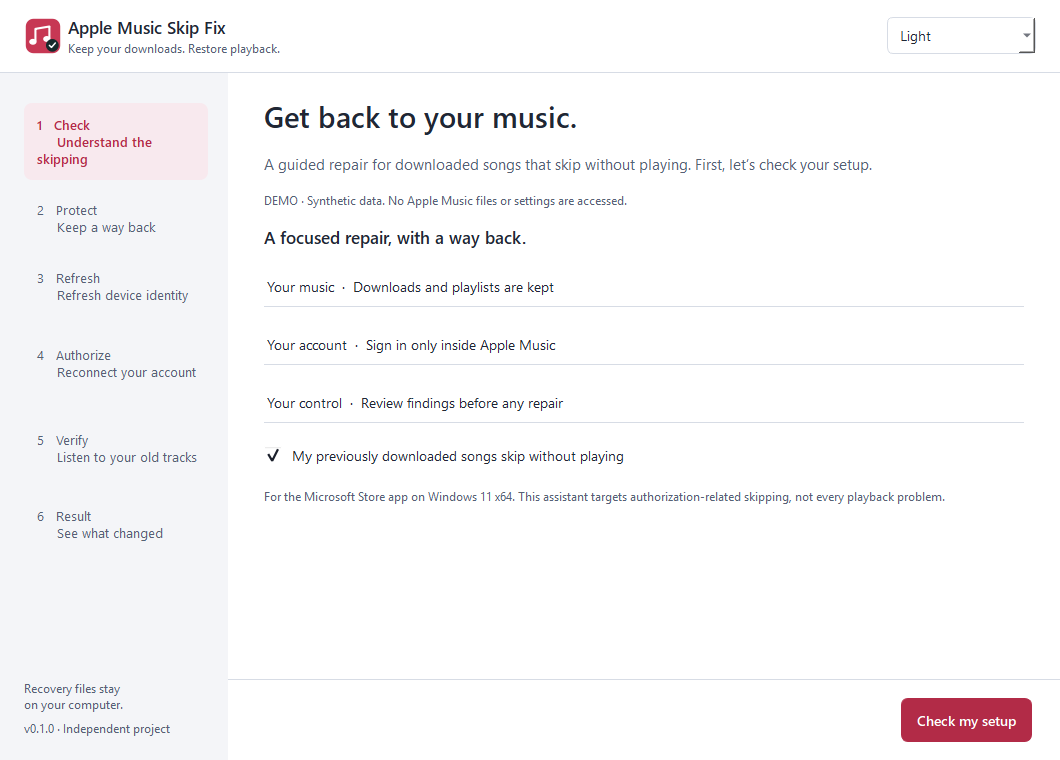
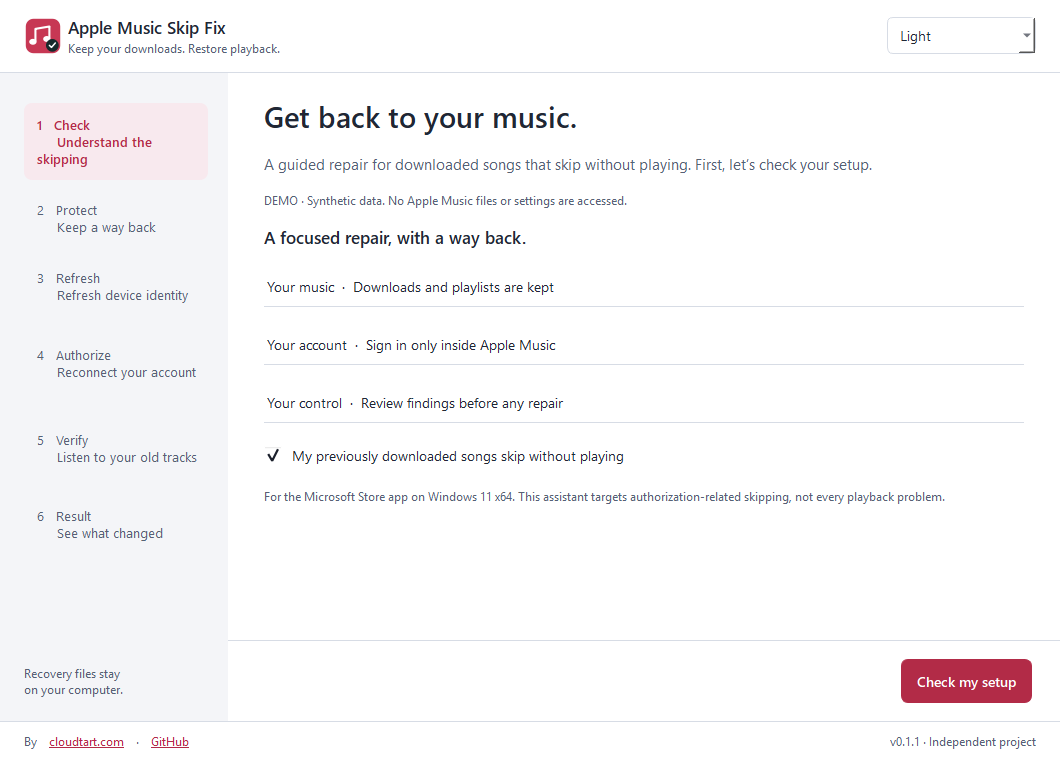
Add CloudTart signature and publisher links for v0.1.1

Changed region(s): [[0.8406, 0.8474, 0.9962, 0.9987], [0.0, 0.8776, 0.1868, 0.9987]]

diff --git a/src/amsf/gui.py b/src/amsf/gui.py
@@ -13,7 +13,7 @@ from PySide6.QtWidgets import (QApplication, QCheckBox, QComboBox, QFileDialog, 
                              QLabel, QMainWindow, QMessageBox, QPlainTextEdit, QProgressBar, QPushButton,
                              QScrollArea, QVBoxLayout, QWidget, QInputDialog)
 
-from . import __version__
+from . import __version__, WEBSITE_URL, GITHUB_PROFILE_URL
 from .core import (PlaybackCheck, SafetyError, Session, compare_inventory, protect,
                    shareable_report, validate_backup)
 from . import windows
@@ -159,7 +159,6 @@ class MainWindow(QMainWindow):
             self.step_labels.append(item)
         nav.addStretch()
         nav.addWidget(text("Recovery files stay\non your computer.", "caption"))
-        nav.addWidget(text("v" + __version__ + " · Independent project", "caption"))
         middle.addWidget(self.rail)
         body = QWidget()
         body_layout = QVBoxLayout(body)
@@ -203,7 +202,38 @@ class MainWindow(QMainWindow):
         body_layout.addWidget(footer)
         middle.addWidget(body, 1)
         outer.addLayout(middle, 1)
+        signature = QFrame()
+        signature.setObjectName("signature")
+        attribution = QHBoxLayout(signature)
+        attribution.setContentsMargins(24, 8, 24, 8)
+        attribution.setSpacing(8)
+        attribution.addWidget(text("By", "caption"))
+        self.website_link = self.brand_link("cloudtart.com", WEBSITE_URL, "Open cloudtart.com, the developer website")
+        self.github_link = self.brand_link("GitHub", GITHUB_PROFILE_URL, "Open farshad-zamani on GitHub")
+        attribution.addWidget(self.website_link)
+        attribution.addWidget(text("·", "caption"))
+        attribution.addWidget(self.github_link)
+        attribution.addStretch()
+        version_caption = text("v" + __version__ + " · Independent project", "caption")
+        version_caption.setWordWrap(False)
+        attribution.addWidget(version_caption)
+        outer.addWidget(signature)
         self.show_stage(0)
+
+    @staticmethod
+    def brand_link(label: str, url: str, accessible_name: str) -> QPushButton:
+        link = QPushButton(label)
+        link.setFlat(True)
+        link.setAutoDefault(True)
+        link.setFocusPolicy(Qt.FocusPolicy.StrongFocus)
+        link.setCursor(Qt.CursorShape.PointingHandCursor)
+        link.setAccessibleName(accessible_name)
+        link.setAccessibleDescription("Opens in your default web browser.")
+        link.setToolTip(url)
+        link.clicked.connect(lambda: QDesktopServices.openUrl(QUrl(url)))
+        link.setProperty("brandUrl", url)
+        link.setObjectName("brandLink")
+        return link
 
     def set_theme(self, choice):
         self.theme = choice
@@ -219,6 +249,11 @@ class MainWindow(QMainWindow):
             QFrame#header,QFrame#footer {{border:0;background:{c['bg']};}}
             QFrame#header {{border-bottom:1px solid {c['line']};}}
             QFrame#footer {{border-top:1px solid {c['line']};}}
+            QFrame#signature {{border-top:1px solid {c['line']};}}
+            QPushButton#brandLink {{background:transparent;color:{c['accent']};font-size:12px;
+                text-decoration:underline;border:1px solid transparent;border-radius:3px;padding:2px 3px;}}
+            QPushButton#brandLink:hover {{background:{c['surface']};border-color:{c['accent']};}}
+            QPushButton#brandLink:focus {{border:1px solid {c['accent']};}}
             QFrame#rail,QFrame#rail QLabel {{background:{c['surface']};}}
             QLabel#brand {{font-size:17px;font-weight:600;}}
             QLabel#caption {{font-size:12px;color:{c['muted']};}}

diff --git a/src/amsf/core.py b/src/amsf/core.py
@@ -13,6 +13,7 @@ from pathlib import Path
 from typing import Callable
 
 from defusedxml.ElementTree import iterparse
+from . import __version__
 
 PAYLOADS = {".frag", ".initfrag", ".m4p", ".m4v", ".m4a", ".mp3", ".flac", ".wav", ".aac"}
 CODES = ("-11800", "-42812", "-42829", "-45061", "-45054", "7513", "7505")
@@ -335,7 +336,7 @@ def shareable_report(session: Session, system: dict, diagnostic: dict) -> dict:
         return value if re.fullmatch(r"\d+(?:\.\d+){0,4}", value) else "unknown"
     state = session.data.get("state")
     method = verification.get("method")
-    return {"application": "Apple Music Skip Fix", "version": "0.1.0", "schema": 1,
+    return {"application": "Apple Music Skip Fix", "version": __version__, "schema": 1,
             "windows_build": version(system.get("build", "unknown")),
             "apple_music_version": version(system.get("version", "unknown")),
             "error_codes": {code: int(diagnostic.get("codes", {}).get(code, 0)) for code in CODES},

diff --git a/tools/package_release.py b/tools/package_release.py
@@ -2,13 +2,15 @@
 import hashlib
 from pathlib import Path
 import shutil
+from amsf import __version__
 
 root = Path(__file__).resolve().parents[1]
 dist = root / "dist"
 shutil.copy2(root / "LICENSE", dist / "AppleMusicSkipFix/LICENSE.txt")
 shutil.copy2(root / "THIRD_PARTY_NOTICES.md", dist / "AppleMusicSkipFix/THIRD_PARTY_NOTICES.md")
-shutil.make_archive(str(dist / "AppleMusicSkipFix-0.1.0-Portable"), "zip", dist, "AppleMusicSkipFix")
-files = [dist / "AppleMusicSkipFix-0.1.0-Portable.zip", dist / "AppleMusicSkipFix-0.1.0-Setup.exe"]
+shutil.copy2(root / "README.md", dist / "AppleMusicSkipFix/README.md")
+shutil.make_archive(str(dist / f"AppleMusicSkipFix-{__version__}-Portable"), "zip", dist, "AppleMusicSkipFix")
+files = [dist / f"AppleMusicSkipFix-{__version__}-Portable.zip", dist / f"AppleMusicSkipFix-{__version__}-Setup.exe"]
 lines = []
 for p in files:
     h = hashlib.sha256()

diff --git a/tools/prepare_build.py b/tools/prepare_build.py
@@ -8,6 +8,7 @@ from PySide6.QtCore import Qt
 from PySide6.QtGui import QGuiApplication, QImage, QPainter
 from PySide6.QtSvg import QSvgRenderer
 from PIL import Image, PngImagePlugin
+from amsf import __version__
 
 root = Path(__file__).resolve().parents[1]
 build = root / "build"
@@ -46,6 +47,6 @@ for path in (root / "docs/images").glob("*.png"):
     with Image.open(path) as source:
         info = PngImagePlugin.PngInfo()
         info.add_text("Origin", "Native Qt screenshot of Apple Music Skip Fix --demo; synthetic data; source: src/amsf/gui.py")
-        info.add_text("Software", "Apple Music Skip Fix 0.1.0 / PySide6; local demo capture")
+        info.add_text("Software", f"Apple Music Skip Fix {__version__} by CloudTart (cloudtart.com) / PySide6; local demo capture")
         source.save(path, pnginfo=info)
 print("Prepared original vector icon and bundled component licenses.")

diff --git a/src/amsf/__init__.py b/src/amsf/__init__.py
@@ -1,2 +1,5 @@
 """Apple Music Skip Fix. Independent software; not affiliated with Apple."""
-__version__ = "0.1.0"
+__version__ = "0.1.1"
+
+WEBSITE_URL = "https://cloudtart.com/"
+GITHUB_PROFILE_URL = "https://github.com/farshad-zamani"

diff --git a/DESIGN.md b/DESIGN.md
@@ -123,7 +123,7 @@ components:
 
 A calm Windows repair desk, organized around a single recoverable task. The next action is always visible and verification is earned. The approved direction in PRODUCT.md and docs/SURFACE.md supplies this language; this document captures the built system rather than proposing a replacement identity.
 
-This is a native Windows desktop interface built with PySide6 Qt Widgets. A quiet step rail, a clear work area and a persistent action footer carry the workflow. Raspberry marks the current step and primary action; neutral surfaces, ruled facts and Segoe UI keep findings easy to scan. The original music-and-check SVG provides the only illustrated brand mark.
+This is a native Windows desktop interface built with PySide6 Qt Widgets. A quiet step rail, a clear work area and a persistent action footer carry the workflow. Raspberry marks the current step and primary action; neutral surfaces, ruled facts and Segoe UI keep findings easy to scan. The original music-and-check SVG provides the only illustrated brand mark. A separate full-width publisher signature remains visible below the workflow, including when the rail is collapsed.
 
 **Key Characteristics:**
 
@@ -133,7 +133,7 @@ This is a native Windows desktop interface built with PySide6 Qt Widgets. A quie
 - Compact windows scroll their work area while preserving the action footer.
 - Recovery and verification remain explicit, separately labeled states.
 
-**Evidence and limits:** Extracted from src/amsf/gui.py and src/amsf/resources/icon.svg; visually checked against docs/images/check-light.png, result-dark.png, authorize-compact.png and check-200-percent.png. All four PNGs include embedded provenance identifying native Qt demo captures with synthetic data. They establish rendered appearance, not real playback, actual user data or repair efficacy. The finish reviewer reported SHIP for the reviewed UI/finding scope after 42 synthetic tests; that verdict does not establish live adapter, installer or repair behavior. Browser rendering and web design detectors do not apply to this Qt Widgets surface.
+**Evidence and limits:** Extracted from src/amsf/gui.py and src/amsf/resources/icon.svg; visually checked against docs/images/check-light.png, result-dark.png, authorize-compact.png, check-200-percent.png, unresolved.png and restored.png, refreshed for the v0.1.1 publisher signature. All six PNGs include embedded provenance identifying native Qt demo captures with synthetic data. They establish rendered appearance, not real playback, actual user data or repair efficacy. The initial finish reviewer reported SHIP for the reviewed UI/finding scope after 42 synthetic tests; that verdict does not establish live adapter, installer or repair behavior. Browser rendering and web design detectors do not apply to this Qt Widgets surface.
 
 ## Colors
 
@@ -141,9 +141,9 @@ One raspberry family sits within cool neutral light and dark themes. The frontma
 
 ### Primary
 
-- **Repair Raspberry** (`raspberry`): primary button fill in both themes; current-step text and focus/hover borders in light theme.
+- **Repair Raspberry** (`raspberry`): primary button fill in both themes; current-step text, publisher links and focus/hover borders in light theme.
 - **Deep Raspberry** (`raspberry-hover`): the implemented primary hover fill. No separate pressed-state fill is implemented.
-- **Soft Raspberry** (`raspberry-dark-theme`): current-step text, focus/hover borders and progress chunks in dark theme. The primary button retains Repair Raspberry with white text.
+- **Soft Raspberry** (`raspberry-dark-theme`): current-step text, publisher links, focus/hover borders and progress chunks in dark theme. The primary button retains Repair Raspberry with white text.
 - **Mark Raspberry** (`mark-raspberry`): the authored SVG tile. Keep it distinct from the button fill; it belongs to the icon artwork.
 
 ### Neutral
@@ -175,22 +175,24 @@ Segoe UI carries both brand and task copy. The hierarchy is compact and practica
 - **Body** (`body`): facts, instructions, checkbox labels and secondary controls.
 - **Primary action** (`button`): semibold footer action.
 - **Step** (`step`): rail names and descriptions; the current step gains semibold weight.
-- **Caption** (`caption`): brand promise, supporting caveats, compact step indicator and local-file reassurance.
+- **Caption** (`caption`): brand promise, supporting caveats, compact step indicator, local-file reassurance and publisher/version signature.
 - **Technical** (`technical`): local machine-readable detail in a read-only editor.
 
-Labels wrap with Qt word wrapping and use plain text. Most QLabel content is mouse-selectable. Preserve sentence case and the existing English UI; do not replace compact captions with decorative all-caps labels.
+Content labels wrap with Qt word wrapping and use plain text. Publisher controls are flat native QPushButtons with plain-text labels, underlined in the existing caption size. Most content QLabel text is mouse-selectable. Preserve sentence case and the existing English UI; do not replace compact captions with decorative all-caps labels.
 
 ## Layout
 
-The nominal window is 1060 × 760 and the minimum is 680 × 440, measured in Qt logical pixels. The outer layout has zero margins and no gaps between the header, middle area and footer surfaces.
+The nominal window is 1060 × 760 and the minimum is 680 × 440, measured in Qt logical pixels. The outer layout has zero margins and no gaps between the header, middle area and full-width publisher signature. The action footer remains inside the middle area's work column.
 
 The header spans the window. Its margins are 24 horizontally and 16 vertically. A 38 × 38 rendering of the authored SVG sits beside a two-line brand block; the theme selector aligns right. The brand name has a 260 minimum width.
 
-At widths of 900 and above, the left rail is fixed at 228. Its margins are 24 left, 30 top, 20 right and 24 bottom, with 8 between step entries. Recovery reassurance and version/project attribution sit at its bottom. The six stage labels are progress indicators, not clickable navigation.
+At widths of 900 and above, the left rail is fixed at 228. Its margins are 24 left, 30 top, 20 right and 24 bottom, with 8 between step entries. Recovery reassurance sits at its bottom. Version/project attribution lives in the always-visible publisher signature rather than the rail. The six stage labels are progress indicators, not clickable navigation.
 
 Below 900, the rail is hidden and a compact `Step n of 6 · Name` indicator appears above the work area. Its margins are 28 horizontally and 14 at the top. Content margins are 24 on all sides in compact mode. In wide mode they are 36 horizontally and 24 vertically after responsive layout is applied. Content spacing is 18. The initial builder's 30 top margin is superseded by apply_responsive; use the applied values when extending the layout.
 
 The work area is a frameless, widget-resizable QScrollArea. A stretch below the stage content keeps short pages aligned to the top. The 760 × 580 authorization capture visibly scrolls its instructions; the footer stays in place. The footer has 28 horizontal and 18 vertical margins, the restore action on the left when available and the primary action on the right. The primary action has a minimum height of 44. Status text and a 3-high indeterminate progress bar occupy rows above the footer when needed.
+
+Below the entire middle area, the publisher signature spans the window across both rail and work column. It has 24 horizontal and 8 vertical margins, with 8 between items. The left group reads `By cloudtart.com · GitHub`; a stretch separates the right-hand `v<version> · Independent project` label. Word wrapping is disabled for that version label, keeping it on one line. A theme-line top border separates the signature from the workflow. It stays outside the scrolling work area and remains visible in compact mode.
 
 **The Anchored Action Rule.** Keep the primary action in the footer outside the scrolling stage. At small sizes or enlarged DPI, scroll content rather than moving the action below it.
 
@@ -214,11 +216,17 @@ The authored SVG is a raspberry rounded tile with a white music note and a dark 
 
 Buttons are compact and legible, with a 1-pixel border and padding defined in the frontmatter. The footer's single primary button uses Repair Raspberry and white semibold text in both themes. Secondary buttons use the theme field background and normal interface text. In the stage area, secondary actions expand to the available layout width; footer buttons remain content-sized.
 
-Hover changes the secondary background to the theme surface and the border to its accent. Primary hover uses the darker raspberry fill. Focus for buttons, combos and checkboxes is an explicit 2-pixel theme-accent border. Disabled buttons use muted text, theme surface and line border, including the primary button. There is no custom active/pressed animation.
+Hover changes the secondary background to the theme surface and the border to its accent. Primary hover uses the darker raspberry fill. Focus for standard action buttons, combos and checkboxes is an explicit 2-pixel theme-accent border; publisher buttons use the 1-pixel treatment described below. Disabled buttons use muted text, theme surface and line border, including the primary button. There is no custom active/pressed animation.
 
 ### Progress rail and compact indicator
 
 Each rail entry includes its number, stage name and a short description. Current uses the theme active fill, accent text and semibold weight; earlier entries use normal ink; upcoming entries use muted text. Accessible names explicitly say current step, complete or upcoming. At the compact breakpoint the rail is replaced by the single textual step indicator, preserving stage context.
+
+### Publisher signature
+
+The persistent signature shows `By cloudtart.com · GitHub` at the left and the running version plus `Independent project` at the right. Keep the exact visible domain `cloudtart.com`. Its flat native QPushButtons use 12-pixel Segoe UI, underlining and the current theme accent; surrounding copy uses the caption color. Each publisher button has a transparent background and 1-pixel border, 2 vertical / 3 horizontal padding and a 3-pixel corner radius. Hover changes the background to the theme surface and the border to the accent; focus uses a 1-pixel accent border. No separate pressed appearance is defined.
+
+Each publisher button has a single native Tab stop, StrongFocus, a pointing-hand cursor and AutoDefault enabled for Return activation. Both have explicit accessible names, the accessible description `Opens in your default web browser.` and destination tooltips. Each clicked handler opens its fixed canonical URL, `https://cloudtart.com/` or `https://github.com/farshad-zamani`, through QDesktopServices. These are user-triggered browser actions implemented as native buttons. Keep this attribution separate from the repair action footer so it remains visible when the step rail collapses and the work area scrolls.
 
 ### Fact rows and status
 

diff --git a/README.md b/README.md
@@ -1,6 +1,6 @@
 # Apple Music Skip Fix
 
-A free Windows assistant for **Apple Music songs that skip without playing**, including previously downloaded tracks.
+A free, open-source Windows assistant by **[cloudtart.com](https://cloudtart.com/)** for **Apple Music songs that skip without playing**, including previously downloaded tracks. Developed by [farshad-zamani on GitHub](https://github.com/farshad-zamani).
 
 Keep your downloads. Protect your library. Refresh device authorization with a guided, reversible workflow.
 
@@ -8,7 +8,7 @@ Independent open-source software. Not made by, affiliated with, or endorsed by A
 
 ## Download
 
-**[Download the Windows installer](https://github.com/farshad-zamani/apple-music-skip-fix/releases/download/v0.1.0/AppleMusicSkipFix-0.1.0-Setup.exe)** · [Portable ZIP](https://github.com/farshad-zamani/apple-music-skip-fix/releases/download/v0.1.0/AppleMusicSkipFix-0.1.0-Portable.zip) · [All releases](https://github.com/farshad-zamani/apple-music-skip-fix/releases)
+**[Download the Windows installer](https://github.com/farshad-zamani/apple-music-skip-fix/releases/download/v0.1.1/AppleMusicSkipFix-0.1.1-Setup.exe)** · [Portable ZIP](https://github.com/farshad-zamani/apple-music-skip-fix/releases/download/v0.1.1/AppleMusicSkipFix-0.1.1-Portable.zip) · [All releases](https://github.com/farshad-zamani/apple-music-skip-fix/releases)
 
 - **Setup.exe:** recommended; installs for your Windows user.
 - **Portable.zip:** extract the entire folder, then open `AppleMusicSkipFix.exe`.
@@ -17,10 +17,10 @@ Independent open-source software. Not made by, affiliated with, or endorsed by A
 
 The first release is unsigned. Windows may show an unrecognized-publisher notice. Verify the source and SHA-256 checksums; do not disable antivirus to use this tool.
 
-Compare this command's result with the matching filename in [SHA256SUMS.txt](https://github.com/farshad-zamani/apple-music-skip-fix/releases/download/v0.1.0/SHA256SUMS.txt):
+Compare this command's result with the matching filename in [SHA256SUMS.txt](https://github.com/farshad-zamani/apple-music-skip-fix/releases/download/v0.1.1/SHA256SUMS.txt):
 
 ```powershell
-Get-FileHash .\AppleMusicSkipFix-0.1.0-Setup.exe -Algorithm SHA256
+Get-FileHash .\AppleMusicSkipFix-0.1.1-Setup.exe -Algorithm SHA256
 ```
 
 ![Apple Music Skip Fix — Check](docs/images/check-light.png)
@@ -110,4 +110,4 @@ See [architecture and safety boundaries](docs/ARCHITECTURE.md), [building a rele
 
 Application source: [MIT](LICENSE). Python, Qt/PySide6 and other bundled components retain their own licenses; see [third-party notices](THIRD_PARTY_NOTICES.md) and the license files in the distribution. Qt libraries are bundled dynamically in the portable directory.
 
-Created by [farshad-zamani](https://github.com/farshad-zamani). Apple and Apple Music are trademarks of their respective owner.
+Apple Music Skip Fix by **[CloudTart — cloudtart.com](https://cloudtart.com/)**. Follow the developer at **[github.com/farshad-zamani](https://github.com/farshad-zamani)**. The same clickable signature appears in the app's persistent footer. Apple and Apple Music are trademarks of their respective owner.

diff --git a/PRODUCT.md b/PRODUCT.md
@@ -24,4 +24,7 @@ The user explicitly approved a Windows task assistant with a left step rail, cen
 One real repair with preserved downloaded payloads and official reauthorization succeeded. The user subsequently confirmed offline playback. This is evidence from one machine, not a universal success rate. Original personal logs, media, keys, settings and backups must not enter the repository.
 
 ## Release
-Public repository farshad-zamani/apple-music-skip-fix; version 0.1.0; unsigned installer and portable ZIP, SHA-256 checksums and honest test coverage.
+Public repository farshad-zamani/apple-music-skip-fix; current version 0.1.1; unsigned installer and portable ZIP, SHA-256 checksums and honest test coverage.
+
+## Publisher and attribution
+The user owns cloudtart.com and requested a persistent clickable footer signature for that site and the GitHub profile https://github.com/farshad-zamani. Preserve the exact visible domain `cloudtart.com`, the product name Apple Music Skip Fix, and matching publisher attribution in public descriptions and distribution metadata. Do not add tracking or change local recovery locations.

diff --git a/docs/BUILDING.md b/docs/BUILDING.md
@@ -15,7 +15,7 @@ python -m venv .venv
 .\tools\smoke_release.ps1
 ```
 
-Use the complete one-folder distribution. Do not move the executable out of its folder or convert the app to an elevated one-file executable. No UPX compression or paid signing certificate is used for 0.1.0.
+Use the complete one-folder distribution. Do not move the executable out of its folder or convert the app to an elevated one-file executable. No UPX compression or paid signing certificate is used for 0.1.x.
 
 The per-user Inno Setup installer requires no administrator account for installation and does not install a background service. Only the in-app cache helper can request elevation for a specific repair.
 

diff --git a/CHANGELOG.md b/CHANGELOG.md
@@ -1,4 +1,12 @@
-# Apple Music Skip Fix 0.1.0
+# Apple Music Skip Fix 0.1.1
+
+- Added a persistent **By cloudtart.com · GitHub** footer with keyboard-accessible website and developer-profile links.
+- Matched CloudTart publisher attribution across the Windows executable, installer, Python metadata and project documentation.
+- Updated public download links and screenshot captures; recovery and authorization behavior is unchanged.
+
+[CloudTart — cloudtart.com](https://cloudtart.com/) · [farshad-zamani on GitHub](https://github.com/farshad-zamani)
+
+## Apple Music Skip Fix 0.1.0
 
 First public beta for Windows 11 x64 and Microsoft Store Apple Music.
 
